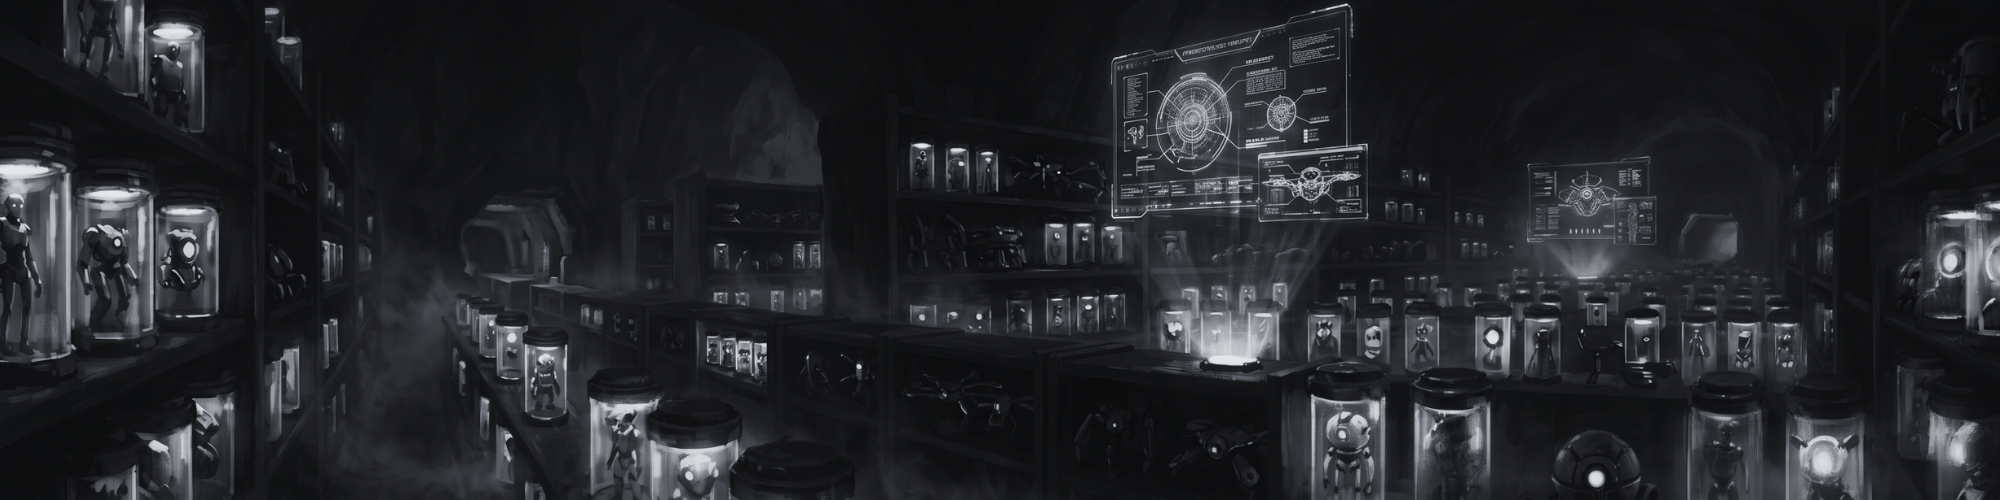
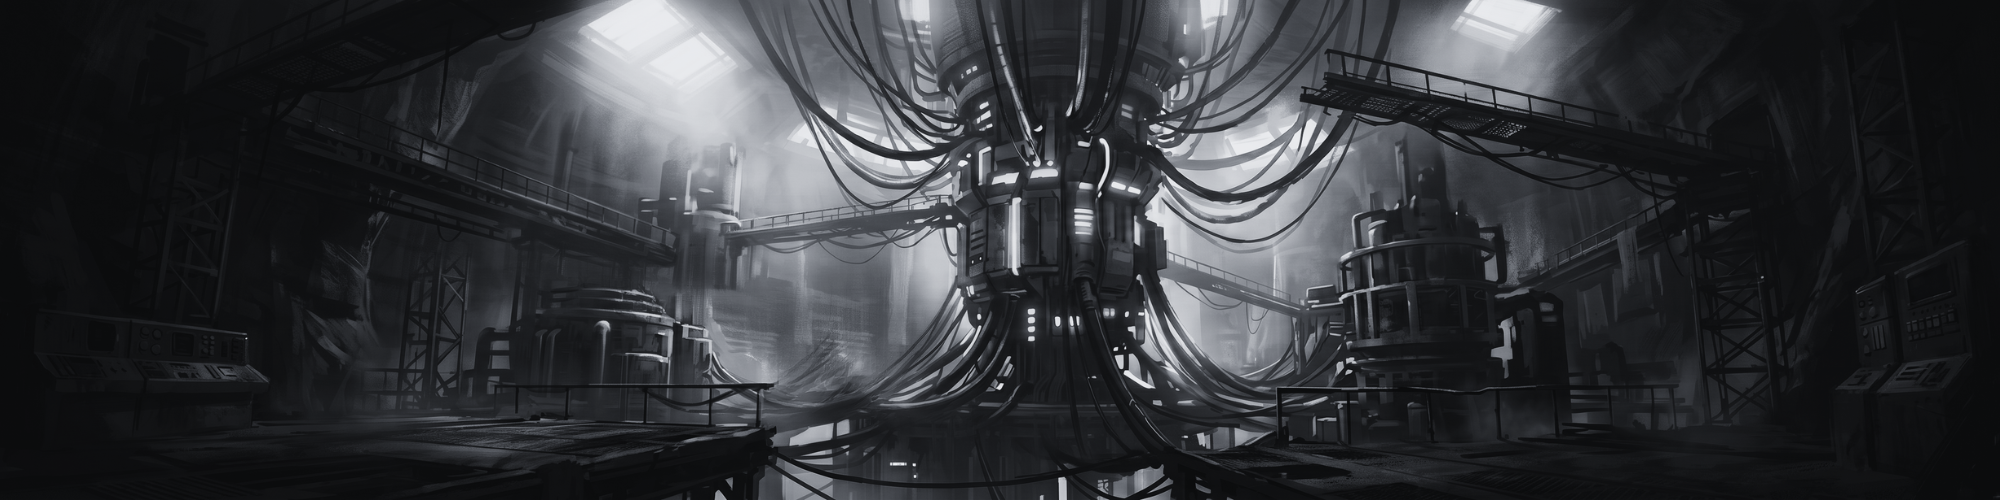
Fix mod5/mod6 image naming; remove takeaways from lesson expand; redesign study music pill; fix lesson title vertical centering
https://claude.ai/code/session_011UPn5ppVUa8YyDHU2bgYh6

diff --git a/nexus-transition.js b/nexus-transition.js
@@ -137,22 +137,26 @@
   // ── Study music toggle (lesson pages only) ──
   if(/\/lesson-\d+-\d+/.test(window.location.pathname)){
     var _smCSS=document.createElement('style');
-    _smCSS.textContent='#nx-sm-btn{position:fixed;bottom:24px;right:24px;width:44px;height:44px;border-radius:50%;background:rgba(13,22,40,0.92);border:1px solid rgba(0,200,255,0.18);display:flex;align-items:center;justify-content:center;cursor:pointer;color:#4a7a9a;font-size:20px;z-index:980;transition:color .25s,border-color .25s,box-shadow .25s;user-select:none;line-height:1;box-shadow:0 2px 12px rgba(0,0,0,0.4);}#nx-sm-btn[data-on]{color:#00c8ff;border-color:rgba(0,200,255,0.55);animation:sm-pulse 2.2s ease-in-out infinite;}@keyframes sm-pulse{0%,100%{box-shadow:0 0 14px rgba(0,200,255,0.22),0 2px 12px rgba(0,0,0,0.4);}50%{box-shadow:0 0 28px rgba(0,200,255,0.42),0 2px 12px rgba(0,0,0,0.4);}}#nx-sm-btn::after{content:"STUDY MUSIC";position:absolute;right:52px;top:50%;transform:translateY(-50%);font-family:"IBM Plex Mono",monospace;font-size:8px;letter-spacing:.18em;color:rgba(0,200,255,0.4);text-transform:uppercase;white-space:nowrap;opacity:0;transition:opacity .2s;pointer-events:none;}#nx-sm-btn:hover::after{opacity:1;}';
+    _smCSS.textContent='#nx-sm-btn{position:fixed;bottom:24px;right:24px;display:flex;align-items:center;gap:10px;background:rgba(10,18,34,0.96);border:1px solid rgba(0,200,255,0.28);border-radius:28px;padding:11px 20px 11px 16px;cursor:pointer;z-index:980;transition:all .25s;user-select:none;backdrop-filter:blur(12px);box-shadow:0 4px 24px rgba(0,0,0,0.45),0 0 0 rgba(0,200,255,0);}#nx-sm-btn:hover{border-color:rgba(0,200,255,0.55);box-shadow:0 4px 24px rgba(0,0,0,0.45),0 0 16px rgba(0,200,255,0.18);}#nx-sm-btn[data-on]{border-color:rgba(0,200,255,0.6);box-shadow:0 4px 24px rgba(0,0,0,0.45),0 0 22px rgba(0,200,255,0.3);animation:sm-pulse 2.4s ease-in-out infinite;}@keyframes sm-pulse{0%,100%{box-shadow:0 4px 24px rgba(0,0,0,0.45),0 0 16px rgba(0,200,255,0.2);}50%{box-shadow:0 4px 24px rgba(0,0,0,0.45),0 0 30px rgba(0,200,255,0.38);}}.sm-icon{font-size:18px;line-height:1;color:#4a7a9a;transition:color .25s;flex-shrink:0;}#nx-sm-btn[data-on] .sm-icon{color:#00c8ff;}.sm-text{font-family:"IBM Plex Mono",monospace;font-size:9px;letter-spacing:.16em;text-transform:uppercase;color:#4a7a9a;white-space:nowrap;transition:color .25s;line-height:1.3;}#nx-sm-btn:hover .sm-text{color:#8ab8cc;}#nx-sm-btn[data-on] .sm-text{color:#00c8ff;}';
     document.head.appendChild(_smCSS);
     var _smAudio=new Audio(_base+'audio/music/study-music-1.mp3');
     _smAudio.loop=true;
     _smAudio.volume=0.28;
     var _smBtn=document.createElement('div');
     _smBtn.id='nx-sm-btn';
-    _smBtn.textContent='♪';
+    _smBtn.innerHTML='<span class="sm-icon">♪</span><span class="sm-text">Want study music? Click here</span>';
+    var _smIcon=_smBtn.querySelector('.sm-icon');
+    var _smTxt=_smBtn.querySelector('.sm-text');
     var _smOn=localStorage.getItem('nexus_study_music')==='1';
-    if(_smOn){_smBtn.setAttribute('data-on','');_smAudio.play().catch(function(){});}
+    if(_smOn){_smBtn.setAttribute('data-on','');_smTxt.textContent='Study music — on';_smAudio.play().catch(function(){});}
     _smBtn.addEventListener('click',function(){
       if(_smBtn.hasAttribute('data-on')){
         _smAudio.pause();_smBtn.removeAttribute('data-on');
+        _smTxt.textContent='Want study music? Click here';
         localStorage.setItem('nexus_study_music','0');
       } else {
         _smAudio.play().catch(function(){});_smBtn.setAttribute('data-on','');
+        _smTxt.textContent='Study music — on';
         localStorage.setItem('nexus_study_music','1');
       }
     });

diff --git a/hub.html b/hub.html
@@ -83,7 +83,7 @@ body::before{content:'';position:fixed;inset:0;background:repeating-linear-gradi
 .l-arr{color:var(--muted);font-size:11px;flex-shrink:0;transition:color .15s}
 .lesson-row:hover .l-arr,.lesson-row:hover .l-name{color:var(--offwhite)}
 .lesson-row.expandable{cursor:pointer;flex-direction:column;align-items:stretch;padding:0;text-decoration:none}
-.lesson-row-head{display:flex;align-items:center;gap:14px;padding:0 20px;min-height:44px;transition:background .15s}
+.lesson-row-head{display:flex;align-items:center;gap:14px;padding:0 20px;height:44px;box-sizing:border-box;transition:background .15s}
 .lesson-row.expandable:hover .lesson-row-head{background:transparent}
 .lesson-row.expandable:hover .lesson-row-head .l-name,.lesson-row.expandable:hover .lesson-row-head .l-arr{color:var(--blue)}
 .lesson-expand{max-height:0;overflow:hidden;transition:max-height .38s cubic-bezier(0.4,0,0.2,1)}
@@ -468,7 +468,7 @@ const MODULES = [
       {n:'4.8',title:'Claude Works with You on Slides, Spreadsheets, and Contract Redlines',url:'module-4/lesson-4-8.html'},
     ]},
   { key:'mod5', label:'Module 5', title:'LEAD GENERATION MACHINE',
-    locked:'images/modules/m6-locked.png', unlocked:'images/modules/mod5-unlocked.png',
+    locked:'images/modules/mod5-locked.png', unlocked:'images/modules/mod5-unlocked.png',
     url:'module-5/intro.html', badge:'pipeline_inventor',
     next:{ mod:'Module 5', title:'Getting Started with Research in Claude.ai', url:'module-5/lesson-5-1.html' },
     lessons:[
@@ -481,7 +481,7 @@ const MODULES = [
       {n:'5.7',title:'Claude Code Just Changed Lead Generation Forever',url:'module-5/lesson-5-7.html'},
     ]},
   { key:'mod6', label:'Module 6', title:'CLIENT READY',
-    locked:'images/modules/mod6-locked.png', unlocked:'images/modules/m6-challenge.png',
+    locked:'images/modules/mod6-locked.png', unlocked:'images/modules/mod6-unlocked.png',
     url:'module-6/intro.html', badge:'operator',
     next:{ mod:'Module 6', title:'How to Build a $10M Solo AI Business (Zero Code)', url:'module-6/lesson-6-1.html' },
     lessons:[
@@ -628,7 +628,7 @@ function renderModules(s){
           const taItems = l.takeaways.map(t=>`<li>${t}</li>`).join('');
           const row = document.createElement('div');
           row.className = 'lesson-row expandable';
-          row.innerHTML = `<div class="lesson-row-head"><span class="l-num">${l.n}</span><span class="l-name">${l.title}</span><span class="l-arr">+</span></div><div class="lesson-expand"><div class="le-inner">${notesBlock}<div class="le-lbl">Key Takeaways</div><ul class="le-ta">${taItems}</ul><div class="le-goto"><a href="${l.url}">Go to Lesson →</a></div></div></div>`;
+          row.innerHTML = `<div class="lesson-row-head"><span class="l-num">${l.n}</span><span class="l-name">${l.title}</span><span class="l-arr">+</span></div><div class="lesson-expand"><div class="le-inner">${notesBlock}<div class="le-goto"><a href="${l.url}">Go to Lesson →</a></div></div></div>`;
           row.querySelector('.lesson-row-head').addEventListener('click',e=>{
             e.stopPropagation();
             const exp=row.querySelector('.lesson-expand');